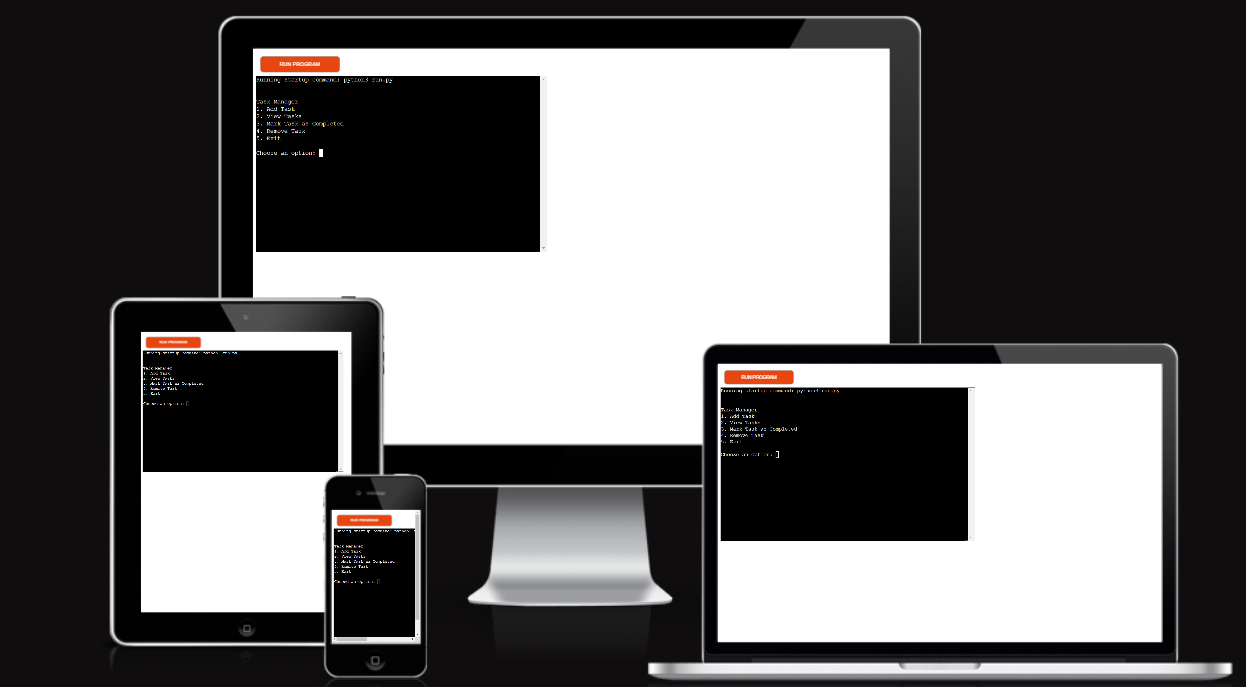
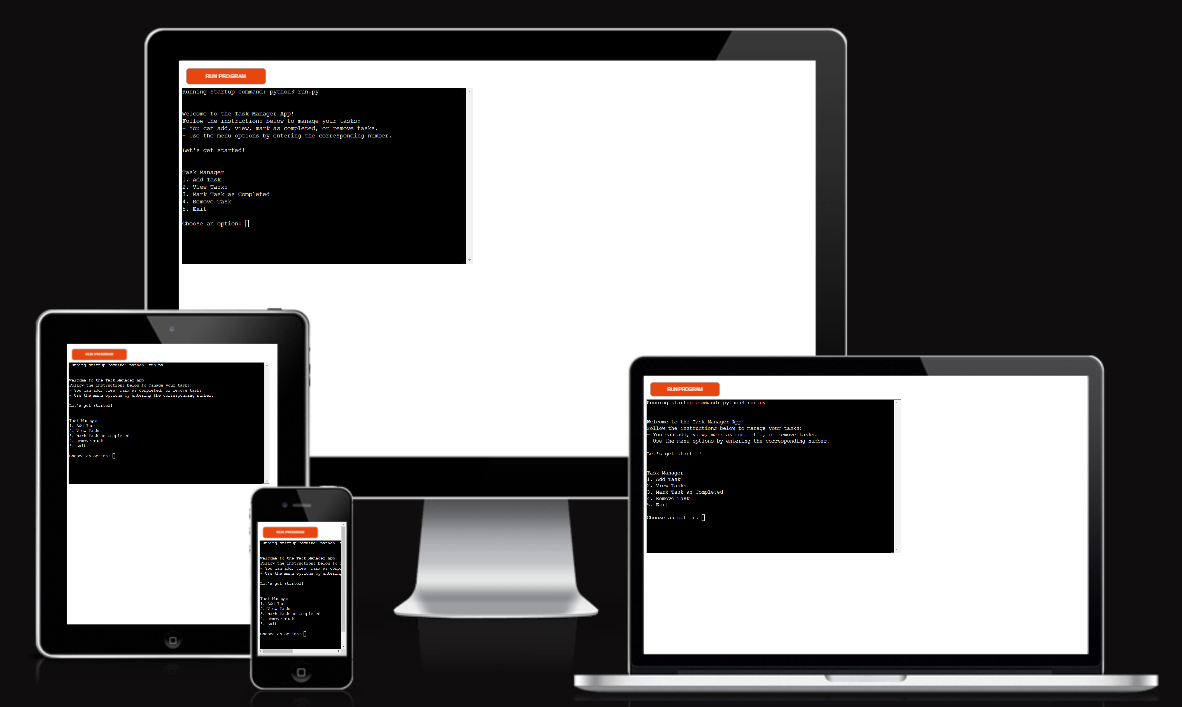
Add input validation examples and screenshots

Changed region(s): [[0.0305, 0.0, 1.0, 1.0]]

diff --git a/run.py b/run.py
@@ -22,7 +22,7 @@ class Task:
 
 class TaskManager:
     """
-    Manages a list of tasks, providing methods to add, view, complete and remove tasks.
+    Manages a list of tasks, providing methods to add, view, complete & remove.
     """
     def __init__(self):
         """
@@ -106,7 +106,8 @@ def get_valid(manager, action):
                 "Invalid task number! "
                 f"valid number is between 1 & {len(manager.tasks)}"
                 )
-                    
+
+
 def display_instructions():
     """
     Display instructions for the task manager app.
@@ -117,10 +118,10 @@ def display_instructions():
     print("- Use the menu options by entering the corresponding number.\n")
     print("Let's get started!\n")
 
+
 def main():
     """
-    The main function to run the task manager program and 
-    display instructions once before the menu
+    The main function to run the task manager program and display instructions.
     """
     manager = TaskManager()
 

diff --git a/README.md b/README.md
@@ -46,16 +46,17 @@ Menu Options:
 This app incorporates validation to enhance user experience and prevent errors.
    ### Examples of Validation:
    - **Menu options**: Only numbers 1-5 are accepted.
+   >![Task Number](assets/images/inputVal_6.png)
    - **Empty Task descriptions**: Prevents adding tasks without a description.
+   >![Empty Task](assets/images/emptyTask.png)
    - **Task numbers**: Ensures selected tasks exist within the valid range.
+   >![Task Number](assets/images/inputvalid2.png)
 
 ## Testing
 ### Manual Testing Results
 The following testing was performed manually:
 
 1. Passed the code through the **PEP8 Linter**, confirming no errors or warnings:
-
-      ![PEP8](assets/images/pep8.png)
 
 2. Tested all features in a local terminal to verify expected behavior:
    - Adding tasks with valid and invalid inputs.
